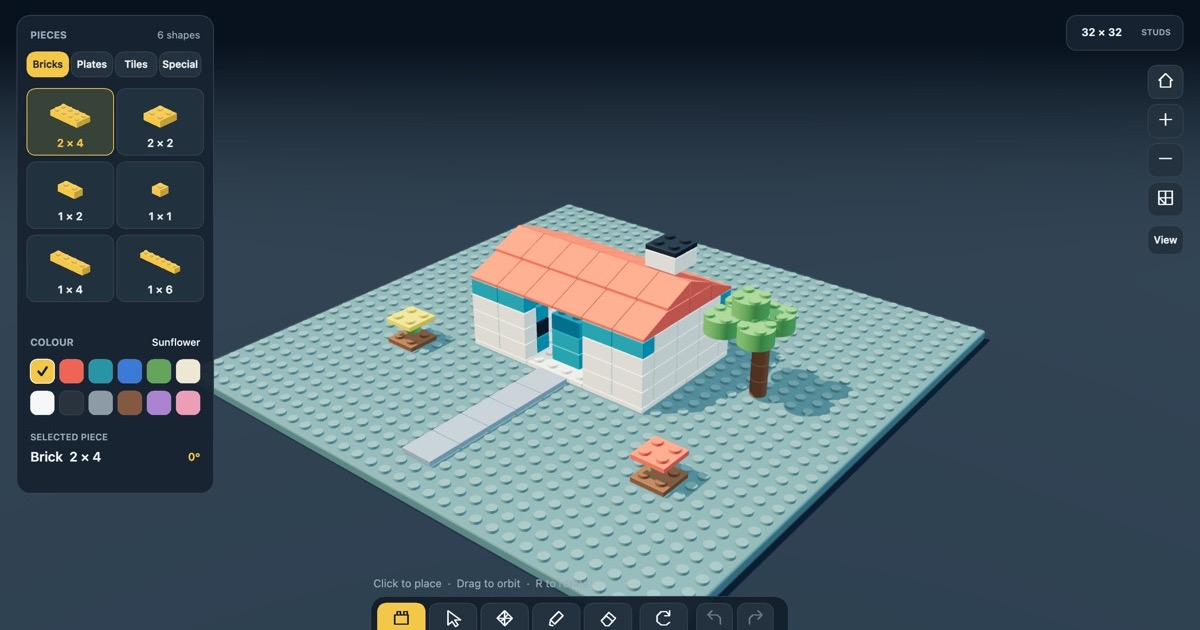
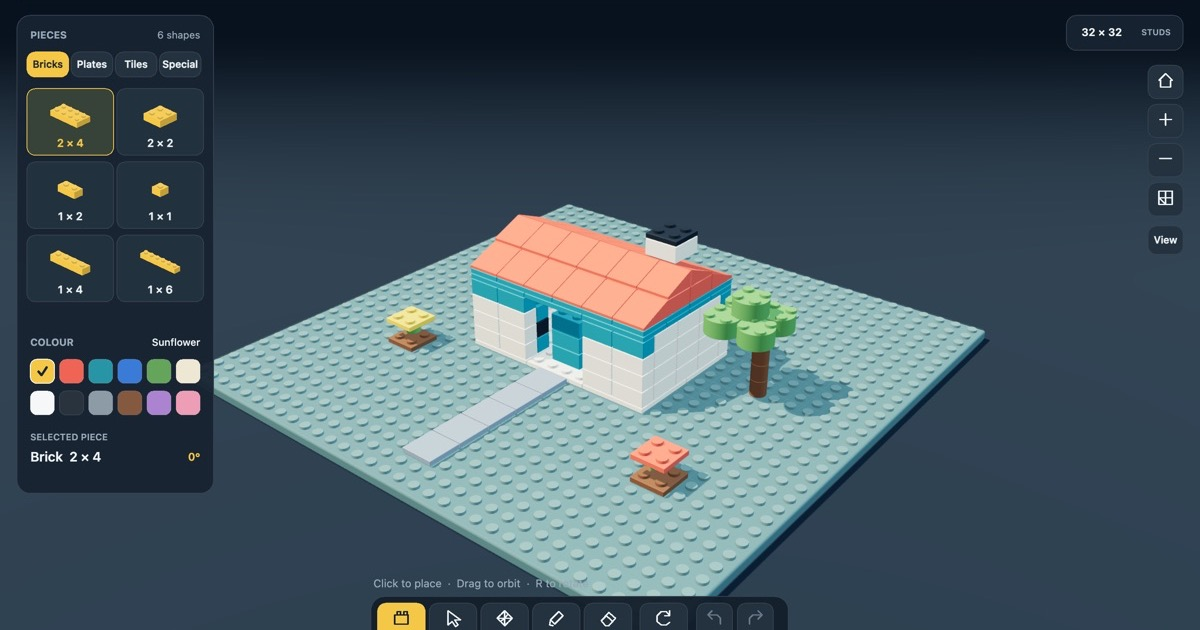
Add gravity and support constraints
Every piece must now be held up. Studded tops (bricks, plates, rounds and
the baseplate) grip the piece above, so the two hold each other up. Smooth
tops (tiles and slopes) carry weight but grip nothing. A piece is held when
a chain of grips and resting contacts reaches the baseplate.

- Placing, moving, rotating or raising a piece where nothing holds it is
  refused, and the preview turns red
- Every model transaction settles the build: unsupported pieces fall,
  with gripped pieces dropping as one rigid group
- Imports and autosave restores settle floating pieces instead of failing
- WebMCP add_build_bricks uses a new atomic Model.addMany with support checks
- Starter builds get ceiling plates (studio) and a plate cap (tower) so
  nothing in them floats
- 15 physics tests

diff --git a/dist/src/model.js b/dist/src/model.js
@@ -6,41 +6,82 @@ export const PARTS=[
 {id:'p24',name:'2 × 4',group:'Plates',w:4,d:2,h:1},{id:'p22',name:'2 × 2',group:'Plates',w:2,d:2,h:1},{id:'p44',name:'4 × 4',group:'Plates',w:4,d:4,h:1},{id:'p12',name:'1 × 2',group:'Plates',w:2,d:1,h:1},{id:'p14',name:'1 × 4',group:'Plates',w:4,d:1,h:1},{id:'p11',name:'1 × 1',group:'Plates',w:1,d:1,h:1},
 {id:'t22',name:'2 × 2',group:'Tiles',w:2,d:2,h:1,tile:true},{id:'t12',name:'1 × 2',group:'Tiles',w:2,d:1,h:1,tile:true},{id:'t24',name:'2 × 4',group:'Tiles',w:4,d:2,h:1,tile:true},
 {id:'s22',name:'Slope 2 × 2',group:'Special',w:2,d:2,h:3,slope:true},{id:'s24',name:'Slope 2 × 4',group:'Special',w:4,d:2,h:3,slope:true},{id:'r11',name:'Round 1 × 1',group:'Special',w:1,d:1,h:3,round:true},{id:'r22',name:'Round 2 × 2',group:'Special',w:2,d:2,h:3,round:true}];
-export const part=id=>PARTS.find(p=>p.id===id);
+const BY_ID=new Map(PARTS.map(p=>[p.id,p]));
+export const part=id=>BY_ID.get(id);
 export function dims(b){const p=part(b.part);return b.r%2?{w:p.d,d:p.w,h:p.h}:{w:p.w,d:p.d,h:p.h};}
 export function bounds(b){const d=dims(b);return {...d,x:b.x,z:b.z,y:b.y,x2:b.x+d.w,z2:b.z+d.d,y2:b.y+d.h};}
 export function overlap(a,b){return a.x<b.x2&&a.x2>b.x&&a.z<b.z2&&a.z2>b.z&&a.y<b.y2&&a.y2>b.y;}
+// Physics. Studded tops (bricks, plates, rounds and the baseplate) grip the piece above, so the two hold each other up.
+// Smooth tops (tiles and slopes) carry weight but grip nothing, so nothing can hang beneath a tile or slope.
+// A piece is held when a chain of grips and resting contacts reaches the baseplate; anything else falls.
+export const UNHELD='Nothing is holding this up. Rest it on the plate or on another piece.';
+export const studded=b=>{const p=part(b.part);return !p.tile&&!p.slope;};
+const cell=(x,z)=>(x+SIZE/2)*SIZE+z+SIZE/2;
+// Pieces indexed by the stud cells they cover. Falling is vertical, so the index stays valid as pieces drop.
+function columns(bricks){const index=new Map();for(const b of bricks){const a=bounds(b);for(let x=a.x;x<a.x2;x++)for(let z=a.z;z<a.z2;z++){const k=cell(x,z);if(!index.has(k))index.set(k,[]);index.get(k).push(b);}}return index;}
+function contacts(b,index){const a=bounds(b),below=new Set(),above=new Set();for(let x=a.x;x<a.x2;x++)for(let z=a.z;z<a.z2;z++)for(const o of index.get(cell(x,z))||[]){if(o===b)continue;const ob=bounds(o);if(ob.y2===a.y)below.add(o);else if(ob.y===a.y2)above.add(o);}return {below,above};}
+// Everything that can hold b up: whatever it sits on, plus what it hangs from if its own studs grip the piece above.
+function holders(b,index){const {below,above}=contacts(b,index);return studded(b)?[...below,...above]:[...below];}
+function held(target,index){const seen=new Set([target]),stack=[target];while(stack.length){const b=stack.pop();if(b.y===0)return true;for(const o of holders(b,index))if(!seen.has(o)){seen.add(o);stack.push(o);}}return false;}
+function heldSet(bricks,index){const out=new Set(),queue=bricks.filter(b=>b.y===0);queue.forEach(b=>out.add(b));while(queue.length){const b=queue.pop();const {below,above}=contacts(b,index);for(const o of above)if(!out.has(o)){out.add(o);queue.push(o);}for(const o of below)if(studded(o)&&!out.has(o)){out.add(o);queue.push(o);}}return out;}
+// Unions loose pieces into rigid groups. `joined(a,o)` decides which contacts bind two pieces together.
+function groups(loose,index,joined){const parent=new Map(loose.map(b=>[b,b])),root=b=>{while(parent.get(b)!==b){parent.set(b,parent.get(parent.get(b)));b=parent.get(b);}return b;};for(const b of loose){const {below,above}=contacts(b,index);for(const o of below)if(parent.has(o)&&joined(o,b))parent.set(root(o),root(b));for(const o of above)if(parent.has(o)&&joined(b,o))parent.set(root(o),root(b));}const out=new Map();for(const b of loose){const r=root(b);if(!out.has(r))out.set(r,[]);out.get(r).push(b);}return [...out.values()];}
+// How far a group can drop before one of its pieces lands on the plate or on a piece outside the group.
+function clearance(group,index){const members=new Set(group);let drop=Infinity;for(const m of group){const a=bounds(m);drop=Math.min(drop,a.y);for(let x=a.x;x<a.x2;x++)for(let z=a.z;z<a.z2;z++)for(const o of index.get(cell(x,z))||[]){if(members.has(o))continue;const ob=bounds(o);if(ob.y2<=a.y)drop=Math.min(drop,a.y-ob.y2);}}return drop;}
+// Drops every unheld piece until the whole build is held. Gripped pieces fall as one rigid group, lowest group first.
+// If every group is blocked by another falling group, groups in contact fall together for that step.
+// Returns the input array untouched when nothing needs to fall.
+export function settle(bricks){
+ let index=columns(bricks);if(heldSet(bricks,index).size===bricks.length)return {bricks,fallen:0};
+ const start=new Map(bricks.map(b=>[b.id,b.y])),work=bricks.map(b=>({...b}));index=columns(work);
+ for(;;){const holding=heldSet(work,index);if(holding.size===work.length)break;const loose=work.filter(b=>!holding.has(b));
+  const fall=list=>{let moved=false;for(const g of list.sort((a,b)=>Math.min(...a.map(m=>m.y))-Math.min(...b.map(m=>m.y)))){const d=clearance(g,index);if(d>0){g.forEach(m=>m.y-=d);moved=true;}}return moved;};
+  if(!fall(groups(loose,index,studded)))fall(groups(loose,index,()=>true));}
+ return {bricks:work,fallen:work.filter(b=>b.y!==start.get(b.id)).length};
+}
 export class Model{
- constructor(){this.bricks=[];this.past=[];this.future=[];this.name='Sunshine studio';this.revision=0;this.listeners=new Set();}
+ constructor(){this.bricks=[];this.past=[];this.future=[];this.name='Sunshine studio';this.revision=0;this.fallen=0;this.listeners=new Set();}
  onChange(fn){this.listeners.add(fn);return()=>this.listeners.delete(fn);}
  snapshot(){return {name:this.name,bricks:this.bricks.map(b=>({...b}))};}
  emit(){this.revision++;for(const fn of this.listeners)fn();}
- transaction(fn){const old=this.snapshot();fn();this.past.push(old);if(this.past.length>80)this.past.shift();this.future=[];this.emit();}
- valid(b,ignore=null){if(!part(b.part)||!Number.isInteger(b.x)||!Number.isInteger(b.z)||!Number.isInteger(b.y)||!Number.isInteger(b.r)||b.r<0||b.r>3||!COLORS.some(c=>c[1]===b.color))return 'Invalid brick';const a=bounds(b);if(a.x< -16||a.z< -16||a.x2>16||a.z2>16||a.y<0||a.y2>96)return 'Outside the build plate';if(this.bricks.some(o=>o.id!==ignore&&overlap(a,bounds(o))))return 'Space is occupied';return null;}
+ // Every edit ends by settling, so whatever lost its support falls; `fallen` counts the pieces that moved.
+ transaction(fn){const old=this.snapshot();fn();({bricks:this.bricks,fallen:this.fallen}=settle(this.bricks));this.past.push(old);if(this.past.length>80)this.past.shift();this.future=[];this.emit();}
+ // Shape, colour, plate bounds and collisions, checked against `others`.
+ fits(b,ignore=null,others=this.bricks){if(!part(b.part)||!Number.isInteger(b.x)||!Number.isInteger(b.z)||!Number.isInteger(b.y)||!Number.isInteger(b.r)||b.r<0||b.r>3||!COLORS.some(c=>c[1]===b.color))return 'Invalid brick';const a=bounds(b);if(a.x< -16||a.z< -16||a.x2>16||a.z2>16||a.y<0||a.y2>96)return 'Outside the build plate';if(others.some(o=>o.id!==ignore&&overlap(a,bounds(o))))return 'Space is occupied';return null;}
+ // Fits, and is held once placed. `ignore` is the piece being replaced, so a move can't lean on the spot it leaves.
+ valid(b,ignore=null){const err=this.fits(b,ignore);if(err)return err;const after=this.bricks.filter(o=>o.id!==ignore);after.push(b);return held(b,columns(after))?null:UNHELD;}
  add(b){if(this.bricks.length>=LIMIT)return 'The 2,000-piece limit is reached';const err=this.valid(b);if(err)return err;this.transaction(()=>this.bricks.push({...b,id:crypto.randomUUID()}));return null;}
+ // Places a batch atomically. Pieces in the batch may hold each other up.
+ addMany(list){if(this.bricks.length+list.length>LIMIT)return 'The 2,000-piece limit is reached';const after=[...this.bricks],added=[];for(const raw of list){const b={part:raw.part,x:raw.x,y:raw.y,z:raw.z,r:raw.r,color:raw.color,id:crypto.randomUUID()};const err=this.fits(b,null,after);if(err)return err;after.push(b);added.push(b);}const index=columns(after);if(!added.every(b=>held(b,index)))return UNHELD;this.transaction(()=>this.bricks=after);return null;}
  update(id,patch){const b=this.bricks.find(b=>b.id===id);if(!b)return 'Choose a brick first';const next={...b,...patch};const err=this.valid(next,id);if(err)return err;this.transaction(()=>Object.assign(b,patch));return null;}
  remove(id){if(!this.bricks.some(b=>b.id===id))return;this.transaction(()=>this.bricks=this.bricks.filter(b=>b.id!==id));}
- undo(){if(!this.past.length)return false;this.future.push(this.snapshot());Object.assign(this,this.past.pop());this.emit();return true;}
- redo(){if(!this.future.length)return false;this.past.push(this.snapshot());Object.assign(this,this.future.pop());this.emit();return true;}
+ undo(){if(!this.past.length)return false;this.future.push(this.snapshot());Object.assign(this,this.past.pop());this.fallen=0;this.emit();return true;}
+ redo(){if(!this.future.length)return false;this.past.push(this.snapshot());Object.assign(this,this.future.pop());this.fallen=0;this.emit();return true;}
  replace(data){const clean=validateProject(data);this.transaction(()=>Object.assign(this,clean));}
  serialize(){return {format:'bricklab',version:1,...this.snapshot()};}
 }
-export function validateProject(data){if(data?.format!=='bricklab'||data.version!==1||!Array.isArray(data.bricks)||data.bricks.length>LIMIT)throw Error('This is not a supported Bricklab project');const m=new Model();const ids=new Set();for(const raw of data.bricks){if(typeof raw.id!=='string'||ids.has(raw.id))throw Error('Invalid or duplicate brick ID');const b={id:raw.id,part:raw.part,x:raw.x,y:raw.y,z:raw.z,r:raw.r,color:raw.color};const err=m.valid(b);if(err)throw Error(err);m.bricks.push(b);ids.add(b.id);}return {name:String(data.name||'Untitled build').slice(0,60),bricks:m.bricks};}
+export function validateProject(data){if(data?.format!=='bricklab'||data.version!==1||!Array.isArray(data.bricks)||data.bricks.length>LIMIT)throw Error('This is not a supported Bricklab project');const m=new Model();const ids=new Set();for(const raw of data.bricks){if(typeof raw.id!=='string'||ids.has(raw.id))throw Error('Invalid or duplicate brick ID');const b={id:raw.id,part:raw.part,x:raw.x,y:raw.y,z:raw.z,r:raw.r,color:raw.color};const err=m.fits(b);if(err)throw Error(err);m.bricks.push(b);ids.add(b.id);}
+ // Floating pieces in older or hand-written projects settle onto whatever is below them rather than failing the import.
+ return {name:String(data.name||'Untitled build').slice(0,60),bricks:settle(m.bricks).bricks};}
 export function starter(kind='studio'){
  const m=new Model();m.name=kind==='blank'?'Untitled build':kind==='tower'?'Colour tower':'Sunshine studio';
- const add=(p,x,y,z,c,r=0)=>{const b={id:crypto.randomUUID(),part:p,x,y,z,color:COLORS[c][1],r};if(!m.valid(b))m.bricks.push(b);};
+ const add=(p,x,y,z,c,r=0)=>{const b={id:crypto.randomUUID(),part:p,x,y,z,color:COLORS[c][1],r};if(!m.fits(b))m.bricks.push(b);};
  if(kind==='studio'){
  for(let x=-6;x<6;x+=4)for(let z=-4;z<4;z+=4)add('p44',x,0,z,5);
  for(let y=1;y<13;y+=3){for(let x=-6;x<6;x+=2){add('b12',x,y,-4,y===10?2:5);if(x!==-2&&x!==0)add('b12',x,y,3,y===10?2:5);}for(let z=-3;z<3;z+=2){add('b12',-6,y,z,5,1);add('b12',5,y,z,5,1);}}
  // Dark window panes and a recessed teal door.
  for(let y=1;y<10;y+=3){add('b12',-1,y,2,2);add('b12',-4,y,2,y===4?7:2);add('b12',2,y,2,y===4?7:2);}
- for(let x=-6;x<6;x+=2){add('s22',x,13,-4,1,2);add('s22',x,13,2,1);add('b22',x,13,-2,1);add('b22',x,13,0,1);add('s22',x,16,-2,1,2);add('s22',x,16,0,1);}
+ // Two ceiling layers with staggered joints tie the walls together so the roof has something to hold it.
+ for(let x=-6;x<6;x+=4)for(let z=-4;z<4;z+=2)add('p24',x,13,z,2);
+ for(let z=-4;z<4;z+=4){add('p24',-6,14,z,2,1);add('p44',-4,14,z,2);add('p44',0,14,z,2);add('p24',4,14,z,2,1);}
+ for(let x=-6;x<6;x+=2){add('s22',x,15,-4,1,2);add('s22',x,15,2,1);add('b22',x,15,-2,1);add('b22',x,15,0,1);add('s22',x,18,-2,1,2);add('s22',x,18,0,1);}
  for(let z=4;z<13;z+=2){add('t22',-1,0,z,8);}
- add('b22',3,19,-2,5);add('p22',3,22,-2,7);
+ add('b22',3,21,-2,5);add('p22',3,24,-2,7);
  for(let y=0;y<12;y+=3)add('r11',9,y,-2,9);
  for(let x=7;x<=9;x+=2)for(let z=-3;z<=-1;z+=2)add('r22',x,12,z,4);
  add('r22',8,15,-2,4);add('p22',-10,0,5,9);add('r11',-10,1,5,4);add('p22',-10,4,5,0);
  add('p22',9,0,7,9);add('r11',9,1,7,4);add('p22',9,4,7,1);
- }else if(kind==='tower'){for(let y=0;y<36;y+=3){for(let x=-3;x<3;x+=2)for(let z=-3;z<3;z+=2)if(x===-3||x===1||z===-3||z===1)add('b22',x,y,z,(y/3)%6);}for(let x=-3;x<3;x+=2)for(let z=-3;z<3;z+=2)add('s22',x,36,z,1);}
+ }else if(kind==='tower'){for(let y=0;y<36;y+=3){for(let x=-3;x<3;x+=2)for(let z=-3;z<3;z+=2)if(x===-3||x===1||z===-3||z===1)add('b22',x,y,z,(y/3)%6);}// A plate cap closes the hollow shaft so the centre slope has something to rest on.
+ add('p44',-3,36,-3,1);add('p24',-3,36,1,1);add('p24',1,36,-3,1,1);add('p22',1,36,1,1);for(let x=-3;x<3;x+=2)for(let z=-3;z<3;z+=2)add('s22',x,37,z,1);}
  return m.serialize();
 }

diff --git a/dist/src/main.js b/dist/src/main.js
@@ -11,7 +11,7 @@ let candidate=null,moveId=null,heightOffset=0,lastPointer=null,viewIndex=0,audio
 function toast(message){state.toast=message;state.toastUntil=performance.now()+3400;hud.dirty=true;setTimeout(()=>hud.dirty=true,3500);}
 function clickSound(){if(!state.sound)return;try{audioContext??=new AudioContext();audioContext.resume();const osc=audioContext.createOscillator(),gain=audioContext.createGain();osc.type='sine';osc.frequency.setValueAtTime(650,audioContext.currentTime);osc.frequency.exponentialRampToValueAtTime(290,audioContext.currentTime+.06);gain.gain.setValueAtTime(.035,audioContext.currentTime);gain.gain.exponentialRampToValueAtTime(.001,audioContext.currentTime+.075);osc.connect(gain).connect(audioContext.destination);osc.start();osc.stop(audioContext.currentTime+.08);}catch{}}
 function autosave(){try{localStorage.setItem(STORAGE,JSON.stringify(model.serialize()));state.saved='Saved on this device';}catch(err){state.saved='Save failed — export your work';toast('Device storage is full. Export your project to keep it.');console.warn('[Bricklab] Autosave failed',err);}hud.dirty=true;}
-model.onChange(()=>{state.saved='Saving…';clearTimeout(saveTimer);saveTimer=setTimeout(autosave,250);if(state.selected&&!model.bricks.some(b=>b.id===state.selected))state.selected=null;world.select(state.selected);hud.dirty=true;});
+model.onChange(()=>{if(model.fallen)toast(model.fallen===1?'1 piece fell':model.fallen+' pieces fell');state.saved='Saving…';clearTimeout(saveTimer);saveTimer=setTimeout(autosave,250);if(state.selected&&!model.bricks.some(b=>b.id===state.selected))state.selected=null;world.select(state.selected);hud.dirty=true;});
 window.addEventListener('pagehide',()=>{clearTimeout(saveTimer);autosave();});
 function select(id){state.selected=id;world.select(id);hud.dirty=true;}
 function download(blob,name){const url=URL.createObjectURL(blob),a=document.createElement('a');a.href=url;a.download=name;a.click();setTimeout(()=>URL.revokeObjectURL(url),2000);}
@@ -53,5 +53,5 @@ window.addEventListener('keydown',e=>{if(e.key==='Tab'){e.preventDefault();hud.f
 window.addEventListener('resize',()=>{world.resize();hud.resize();});
 // Read-only diagnostics describe the current visible workshop; no test-only mutations.
 window.bricklabDiagnostics=()=>({backend:world.backend,pieces:model.bricks.length,revision:model.revision,drawCalls:world.renderer.info.render.drawCalls,triangles:world.renderer.info.render.triangles,frames:world.frames,lastSubmissionMs:Number(world.frameMs.toFixed(2)),selected:state.selected,tool:state.tool,history:{undo:model.past.length,redo:model.future.length},project:model.serialize()});
-const context=document.modelContext;if(context?.registerTool){const lifecycle=new AbortController();const register=t=>{try{Promise.resolve(context.registerTool(t,{signal:lifecycle.signal})).catch(e=>console.warn('[Bricklab] Tool registration unavailable',e));}catch(e){console.warn('[Bricklab] Tool registration unavailable',e);}};register({name:'inspect_brick_build',description:'Read the current brick project and available capacity.',inputSchema:{type:'object',properties:{},additionalProperties:false},annotations:{readOnlyHint:true},execute:()=>({project:model.serialize(),capacity:LIMIT})});register({name:'add_build_bricks',description:'Place up to 100 bricks atomically on the current build plate. Coordinates are integer studs, height is in plates.',inputSchema:{type:'object',properties:{bricks:{type:'array',minItems:1,maxItems:100,items:{type:'object',properties:{part:{type:'string'},color:{type:'string'},x:{type:'integer'},y:{type:'integer'},z:{type:'integer'},r:{type:'integer',minimum:0,maximum:3}},required:['part','color','x','y','z','r'],additionalProperties:false}}},required:['bricks'],additionalProperties:false},execute:input=>{if(!Array.isArray(input?.bricks)||input.bricks.length<1||input.bricks.length>100)throw Error('Supply 1–100 bricks');const data=model.serialize();data.bricks.push(...input.bricks.map(b=>({...b,id:crypto.randomUUID()})));model.replace(data);hud.dirty=true;hud.draw();return {pieces:model.bricks.length};}});window.addEventListener('pagehide',()=>lifecycle.abort());}
+const context=document.modelContext;if(context?.registerTool){const lifecycle=new AbortController();const register=t=>{try{Promise.resolve(context.registerTool(t,{signal:lifecycle.signal})).catch(e=>console.warn('[Bricklab] Tool registration unavailable',e));}catch(e){console.warn('[Bricklab] Tool registration unavailable',e);}};register({name:'inspect_brick_build',description:'Read the current brick project and available capacity.',inputSchema:{type:'object',properties:{},additionalProperties:false},annotations:{readOnlyHint:true},execute:()=>({project:model.serialize(),capacity:LIMIT})});register({name:'add_build_bricks',description:'Place up to 100 bricks atomically on the current build plate. Coordinates are integer studs, height is in plates. Every brick must be held up: resting on the plate or another piece, or hanging beneath a held piece by its own studs. Tiles and slopes have smooth tops, so nothing can hang beneath them. Bricks in the same batch may hold each other up.',inputSchema:{type:'object',properties:{bricks:{type:'array',minItems:1,maxItems:100,items:{type:'object',properties:{part:{type:'string'},color:{type:'string'},x:{type:'integer'},y:{type:'integer'},z:{type:'integer'},r:{type:'integer',minimum:0,maximum:3}},required:['part','color','x','y','z','r'],additionalProperties:false}}},required:['bricks'],additionalProperties:false},execute:input=>{if(!Array.isArray(input?.bricks)||input.bricks.length<1||input.bricks.length>100)throw Error('Supply 1–100 bricks');const err=model.addMany(input.bricks);if(err)throw Error(err);hud.dirty=true;hud.draw();return {pieces:model.bricks.length};}});window.addEventListener('pagehide',()=>lifecycle.abort());}
 let lastHud=0;function loop(t){world.tick(t);if(t-lastHud>1000){lastHud=t;if(state.toast&&t>state.toastUntil){state.toast='';hud.dirty=true;}}hud.draw();requestAnimationFrame(loop);}requestAnimationFrame(loop);

diff --git a/tests/physics.test.js b/tests/physics.test.js
@@ -1,0 +1,21 @@
+import test from 'node:test';import assert from 'node:assert/strict';import {Model,starter,validateProject,settle,COLORS} from '../dist/src/model.js';
+const color=COLORS[0][1],at=(part,x,y,z,r=0)=>({part,x,y,z,r,color});
+const find=(m,x,y,z)=>m.bricks.find(b=>b.x===x&&b.y===y&&b.z===z);
+// A pillar of two 1×1 bricks at x=0 topped by a 1×4 bridge reaching to x=4.
+function bridge(){const m=new Model();for(const b of [at('b11',0,0,0),at('b11',0,3,0),at('b14',0,6,0)])assert.equal(m.add(b),null);return m;}
+
+test('pieces cannot be placed in mid-air',()=>{const m=new Model();assert.match(m.add(at('b24',0,6,0)),/holding/);assert.equal(m.bricks.length,0);assert.equal(m.add(at('b24',0,0,0)),null);});
+test('pieces rest on the plate, stack, and cantilever from a single stud',()=>{const m=new Model();assert.equal(m.add(at('b11',0,0,0)),null);assert.equal(m.add(at('b24',0,3,0)),null);assert.equal(m.add(at('b24',3,6,1)),null);});
+test('studded pieces hang beneath a held piece; smooth-topped pieces cannot',()=>{const m=bridge();assert.equal(m.add(at('b11',3,3,0)),null);assert.match(m.add(at('t12',1,5,0)),/holding/);});
+test('tiles and slopes carry weight but nothing hangs from them',()=>{const m=new Model();assert.equal(m.add(at('t22',0,0,0)),null);assert.equal(m.add(at('b22',0,1,0)),null);assert.equal(m.add(at('s22',4,0,0)),null);assert.equal(m.add(at('b22',4,3,0)),null);});
+test('raising a piece off its support is rejected',()=>{const m=new Model();m.add(at('b22',0,0,0));assert.match(m.update(m.bricks[0].id,{y:1}),/holding/);assert.equal(m.bricks[0].y,0);});
+test('removing a support makes the pieces above fall, and undo restores them',()=>{const m=new Model();m.add(at('b11',0,0,0));m.add(at('b11',0,3,0));m.add(at('p11',0,6,0));m.remove(find(m,0,0,0).id);assert.equal(m.fallen,2);assert.deepEqual(m.bricks.map(b=>[b.part,b.y]).sort(),[['b11',0],['p11',3]]);m.undo();assert.equal(m.fallen,0);assert.deepEqual(m.bricks.map(b=>b.y).sort((a,b)=>a-b),[0,3,6]);});
+test('gripped pieces fall together as one rigid group',()=>{const m=bridge();m.add(at('b11',3,3,0));m.remove(find(m,0,0,0).id);assert.equal(m.fallen,3);assert.ok(find(m,0,0,0)&&find(m,3,0,0));assert.equal(find(m,0,3,0).part,'b14');});
+test('a piece resting on a smooth top falls separately from the piece below it',()=>{const m=new Model();m.add(at('b22',0,0,0));m.add(at('t22',0,3,0));m.add(at('b22',0,4,0));m.add(at('b11',4,0,0));m.remove(find(m,0,0,0).id);assert.deepEqual(m.bricks.filter(b=>b.x===0).map(b=>[b.part,b.y]),[['t22',0],['b22',1]]);});
+test('a falling group lands on the highest surface beneath any of its pieces',()=>{const m=bridge();m.add(at('b11',3,0,0));m.add(at('p11',3,3,0));m.remove(find(m,0,0,0).id);assert.equal(m.fallen,2);assert.equal(find(m,0,4,0).part,'b14');assert.equal(find(m,0,1,0).part,'b11');});
+test('moving a support away lets what it held fall',()=>{const m=new Model();m.add(at('b22',0,0,0));m.add(at('b22',0,3,0));const base=find(m,0,0,0);assert.equal(m.update(base.id,{x:6}),null);assert.equal(m.fallen,1);assert.ok(find(m,0,0,0)&&find(m,6,0,0));});
+test('a piece cannot be moved to hang from what only it was holding up',()=>{const m=bridge();const pillarTop=find(m,0,3,0);assert.match(m.update(pillarTop.id,{x:3}),/holding/);});
+test('imports settle floating pieces instead of rejecting the project',()=>{const data={format:'bricklab',version:1,name:'Floaty',bricks:[{id:'a',...at('b22',0,9,0)},{id:'b',...at('p22',0,12,0)},{id:'c',...at('b11',5,0,5)}]};const clean=validateProject(data);assert.deepEqual(clean.bricks.map(b=>[b.id,b.y]),[['a',0],['b',3],['c',0]]);});
+test('settle leaves an already-held build untouched',()=>{const data=starter('studio');const result=settle(data.bricks);assert.equal(result.fallen,0);assert.equal(result.bricks,data.bricks);});
+test('every starter build is fully held with nothing to settle',()=>{for(const kind of ['blank','studio','tower']){const data=starter(kind);assert.equal(settle(data.bricks).fallen,0,kind);assert.ok(data.bricks.length>0||kind==='blank');}});
+test('batch placement checks support across the whole batch and is atomic',()=>{const m=new Model();assert.equal(m.addMany([at('b11',3,3,0),at('b14',0,6,0),at('b11',0,0,0),at('b11',0,3,0)]),null);assert.equal(m.bricks.length,4);assert.equal(m.past.length,1);assert.match(m.addMany([at('b11',10,0,10),at('b11',10,6,10)]),/holding/);assert.equal(m.bricks.length,4);assert.match(m.addMany([at('b11',12,0,12),at('b11',12,0,12)]),/occupied/);assert.equal(m.bricks.length,4);});

diff --git a/dist/src/hud.js b/dist/src/hud.js
@@ -30,6 +30,6 @@ export class HUD{
  modal(type){const c=this.ctx,w=this.w,h=this.h,s=this.s;const mw=Math.min(w-24,620),mh=Math.min(h-32,type==='help'?520:440),x=(w-mw)/2,y=(h-mh)/2;c.fillStyle='#080f18c7';c.fillRect(0,0,w,h);this.zones=[];this.rr(x,y,mw,mh,22,'#1a2734','#4d6172');this.button('close','×',x+mw-50,y+16,32,32);const titles={projects:'Your next great build',export:'Take your build with you',help:'A little help. A lot of possibility.',new:'Start fresh?',settings:'Workshop settings'};this.text(titles[type]||type,x+24,y+37,this.w<500?19:24,C.text,750);
  if(type==='projects'){this.text('Choose a starting point. Your current build stays in undo.',x+24,y+76,this.w<500?12:14,C.muted);const cards=[['blank','Empty plate','Start with a clean canvas',2],['studio','Sunshine studio','A tiny place for big ideas',1],['tower','Colour tower','Build a little higher',0]];cards.forEach(([id,title,sub,col],i)=>{const yy=y+107+i*80;this.rr(x+20,yy,mw-40,68,12,'#253644');this.brick(part(id==='tower'?'b22':'b24'),x+58,yy+22,7,COLORS[col][1]);this.text(title,x+104,yy+24,16,C.text,650);this.text(sub,x+104,yy+46,12,C.muted);this.zones.push({id:'starter:'+id,label:title,x:x+20,y:yy,w:mw-40,h:68});});this.button('import','Open project file',x+24,y+mh-62,mw-48,38);}
  if(type==='export'){this.text(s.model.name,x+24,y+79,16,C.muted);this.button('download','Download project (.bricklab)',x+24,y+119,mw-48,52);this.text('Editable file • includes every brick, colour and position',x+24,y+187,this.w<500?11:13,C.muted);this.button('photo','Save image (.png)',x+24,y+222,mw-48,52);this.text('A clean picture of your current camera view',x+24,y+291,13,C.muted);this.text('Your work also saves automatically in this browser.',x+24,y+mh-43,this.w<500?11:13,C.muted);}
- if(type==='help'){const rows=[['Place a brick','Build tool, then click the plate or a brick'],['Look around','Drag to orbit · scroll to zoom · right-drag to pan'],['Touch controls','Tap to place · drag to orbit · pinch to zoom'],['Change tools','B build · V select · M move · P paint · X erase'],['Edit a brick','Select, then R rotate · D copy · Delete remove'],['Adjust height','[ lower one plate · ] raise one plate'],['Undo / redo','Ctrl / ⌘ Z · Ctrl / ⌘ Shift Z'],['Quick views','F fit view · T top view · Esc cancel'],['Keep your work','Autosave is local to this browser and device']];rows.forEach(([a,b],i)=>{const yy=y+88+i*42;this.text(a,x+24,yy,13,C.yellow,600);this.text(b,x+24,yy+18,this.w<500?10:12,C.muted);});}
+ if(type==='help'){const rows=[['Place a brick','Build tool, then click the plate or a brick'],['Look around','Drag to orbit · scroll to zoom · right-drag to pan'],['Touch controls','Tap to place · drag to orbit · pinch to zoom'],['Change tools','B build · V select · M move · P paint · X erase'],['Edit a brick','Select, then R rotate · D copy · Delete remove'],['Gravity','Pieces rest on the plate or hang from studs · [ ] lower or raise'],['Undo / redo','Ctrl / ⌘ Z · Ctrl / ⌘ Shift Z'],['Quick views','F fit view · T top view · Esc cancel'],['Keep your work','Autosave is local to this browser and device']];rows.forEach(([a,b],i)=>{const yy=y+88+i*42;this.text(a,x+24,yy,13,C.yellow,600);this.text(b,x+24,yy+18,this.w<500?10:12,C.muted);});}
  }
 }

diff --git a/site/index.html b/site/index.html
@@ -160,7 +160,7 @@ footer{border-top:2px dashed rgba(27,42,51,.18);padding-block:28px 40px;color:va
    <article class="slab" style="--c:#f4c747;--t:#29333d">
     <h3>Pieces</h3>
     <p>19 pieces in four groups: bricks, plates, tiles, and special shapes like slopes and rounds.</p>
-    <p>Every piece snaps to the stud grid, turns in quarter steps, and stacks on whatever is below it.</p>
+    <p>Every piece snaps to the stud grid and turns in quarter steps. Gravity is on: pieces rest on what's below or hang from studs above, and anything left unsupported falls.</p>
    </article>
    <article class="slab" style="--c:#f6f7f8;--t:#29333d">
     <h3>Tools</h3>

diff --git a/README.md b/README.md
@@ -41,20 +41,32 @@ The only visible elements are the 3D canvas and the canvas UI. Native file selec
 
 ## Implemented scope
 
-19 parametric pieces in four categories; 12 colours; stud-grid placement and stacking; collision and build-volume bounds; rotate, select, move, paint, duplicate, erase and height adjustment; 80-level undo/redo; three starter scenes; project import/export; PNG snapshots; local autosave; orbit, pan, zoom and top/front views; touch and keyboard controls.
+19 parametric pieces in four categories; 12 colours; stud-grid placement and stacking; collision and build-volume bounds; gravity and support constraints; rotate, select, move, paint, duplicate, erase and height adjustment; 80-level undo/redo; three starter scenes; project import/export; PNG snapshots; local autosave; orbit, pan, zoom and top/front views; touch and keyboard controls.
 
 Rendering is invalidated on demand, pixel ratio is capped at 1.75, and geometry is shared and instanced by part type. The model is capped at 2,000 pieces.
 
-## Known limitations
+## Gravity and support
 
-- **No gravity yet.** Bricklab is a creative builder, not a structural connection simulator. Pieces can be placed in mid-air with the height offset, and bricks stay suspended when their supports are removed.
+Every piece has to be held up, and the model enforces this for every edit: placing, moving, rotating, raising, deleting, undo, import, autosave restore and the WebMCP tools.
+
+- **Studded tops grip.** Bricks, plates, rounds and the baseplate have studs, so they hold the piece above them and the piece above holds them. A single stud is enough, which allows cantilevers and pieces hanging beneath a bridge.
+- **Smooth tops only carry weight.** Tiles and slopes can have pieces resting on them, but nothing can hang beneath them.
+- **Unsupported placements are refused.** The preview turns red and the studio explains why.
+- **Unsupported pieces fall.** When removing or moving a piece leaves others with nothing holding them, they drop straight down. Pieces gripped together fall as one rigid group until they land on the plate or another piece.
+- **Older projects settle on load.** Floating pieces in imported files or older autosaves drop into place instead of failing to load.
+
+The rules decide support only. There's no tipping, centre-of-mass or load-strength simulation, so a long cantilever held by one stud stays put.
+
+## Known limitations
 - **WebGL 2 fallback.** On one macOS machine, every three.js WebGL render (including a single cube) logged ANGLE "Metal error: Compiler encountered an internal error" and the studio's first WebGL frame did not finish within 60 seconds. WebGPU rendered the same scene in about 0.5 seconds. It hasn't been tested on other machines yet; reports are welcome.
 
 ## Verification status — 5 October 2026
 
-PASS: Seven domain tests covering collision/stacking, rotated bounds, history, atomic invalid-import rejection, starter round-trips and capacity.
+PASS: Seven model tests covering collision/stacking, rotated bounds, history, atomic invalid-import rejection, starter round-trips and capacity.
 
 PASS (Chrome, macOS, WebGPU): the starter scene renders with no runtime errors, a click places a brick and autosaves it, and drag-orbit works.
+
+PASS: 15 physics tests covering placement, hanging, smooth tops, falling groups, landing height, moves, imports, starter stability and atomic batches. In Chrome, erasing the base of the tree dropped the 8 pieces above it, undo restored them, and a mid-air placement was refused.
 
 NOT YET VERIFIED: the full checklist below, mobile touch interaction, frame timings with large scenes, and the WebGL fallback on hardware other than the machine described above.
 
